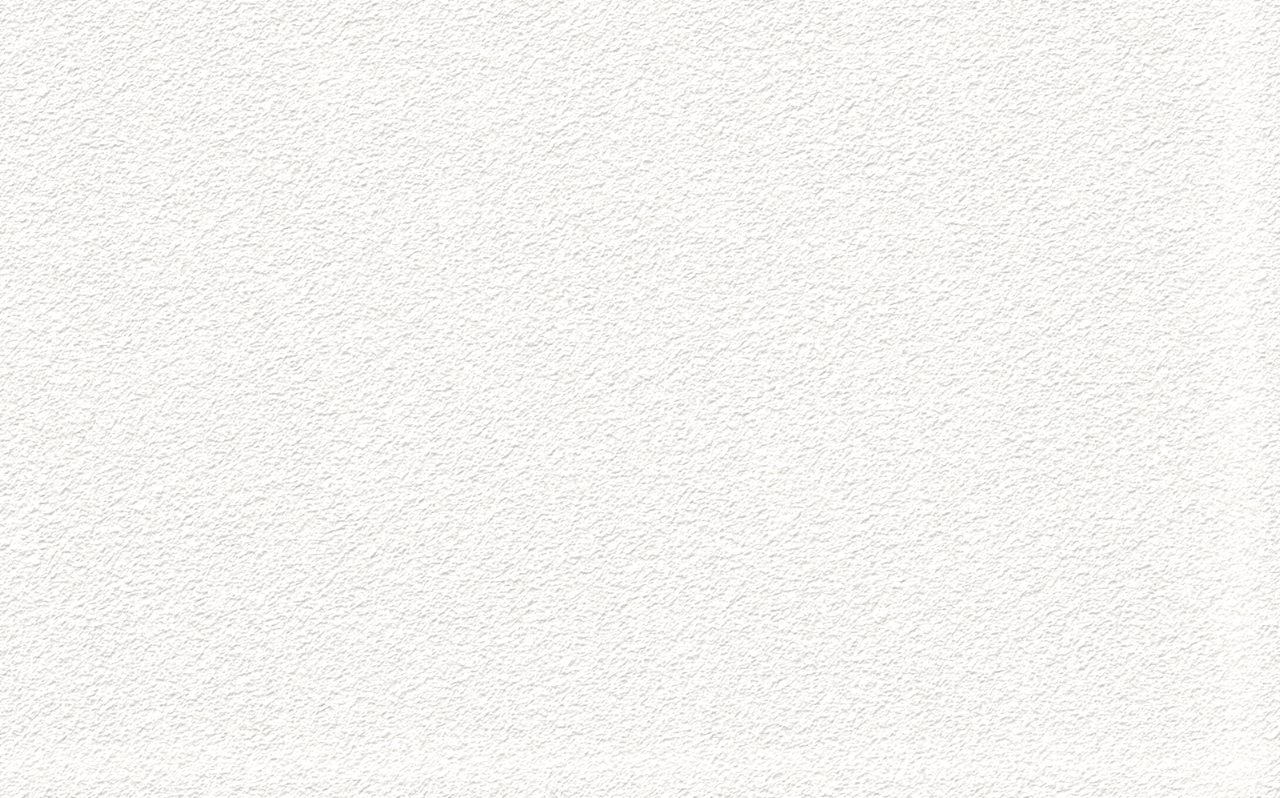
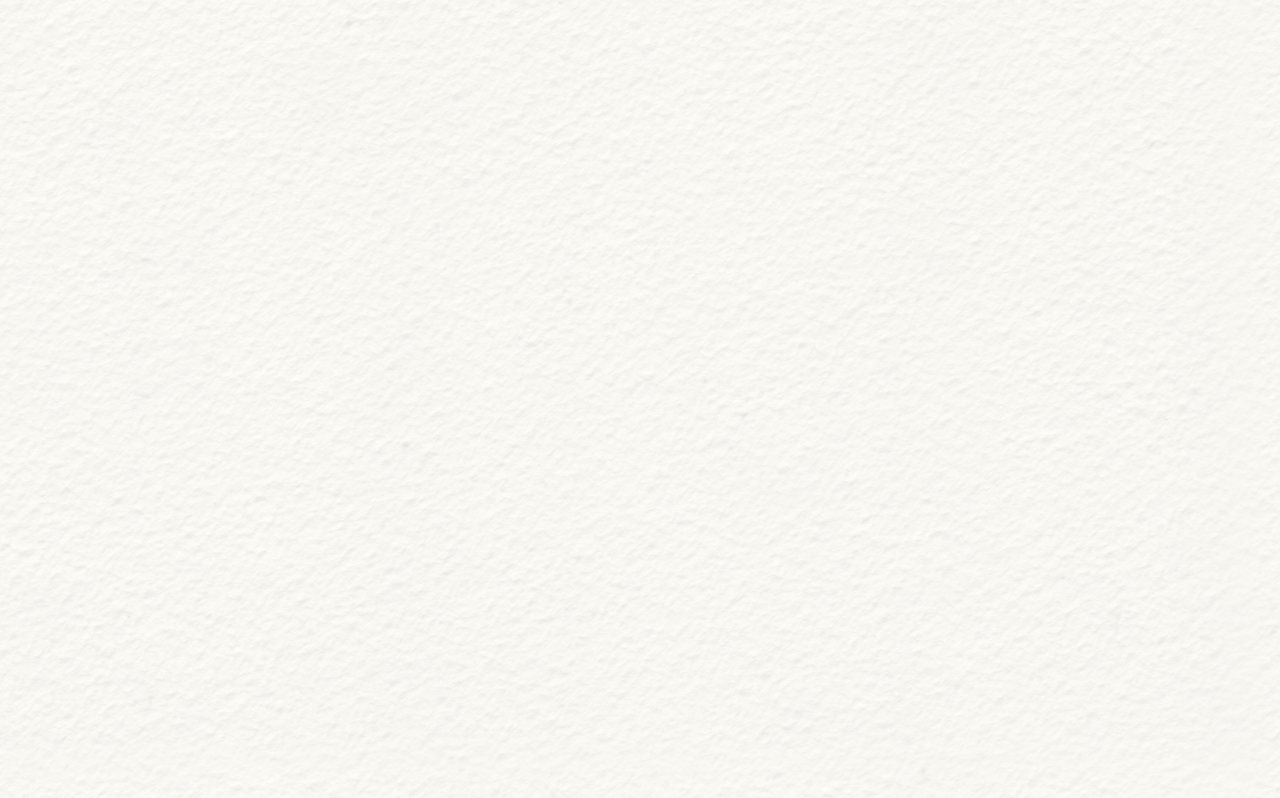
fix(profile): calender newsprint away from drawing-paper tooth
Rebuild the Newsprint sheet as a newsprint-specific paper model: harder
calender, scan-amplitude pulp, and paper-thin lighting without RMS-lock
so leftover watercolor pebbles are not restamped as a tiled shader.

Changed region(s): [[0.0312, 0.9925, 0.0625, 1.0]]

diff --git a/scripts/gennewsprint/material-swatch.html b/scripts/gennewsprint/material-swatch.html
@@ -27,5 +27,5 @@ body{
 <p class="label">Newsprint material · height / normal / roughness / ink</p>
 <div class="blocks"><div class="block gray"></div><div class="block black"></div></div>
 <div class="rules"><div class="one"></div><div class="two"></div></div>
-<p class="copy"><strong>whereToken local token accounting</strong><br>Coldset ink multiplies into a height-lit uncoated sheet. Type stays crisp; the substrate carries felt, calendering, and a soft desk key.</p>
+<p class="copy"><strong>whereToken local token accounting</strong><br>Coldset ink multiplies into a calendered newsprint sheet. Formation lives in the paper color; the remaining tooth is not a lit watercolor stamp.</p>
 </body></html>

diff --git a/scripts/gennewsprint/process.go b/scripts/gennewsprint/process.go
@@ -10,36 +10,40 @@ import (
 	"os"
 )
 
-// Printed-paper bake. The production JPEG is a shaded RGB sheet, not a
-// grayscale overlay. Stack:
+// Newsprint-specific paper model. Paper001 is watercolor / drawing stock;
+// the bake must not ship that tooth as a lit relief stamp.
 //
-//   height  — photoscanned displacement, calendered toward newsprint
-//   normal  — wrapped finite differences of that height field
-//   roughness — valleys and steep felt are broader / more absorptive
-//   lighting — one soft desk key + faint fill + micro-occlusion + sheen
-//   albedo  — scanned color retinted to the CSS paper base
+//   height  — calender the scan; keep only the scan's real mid-frequency
+//             pulp (no Fourier, no contrast-normalized sheet clouds)
+//   normal  — fixed paper-thin slope gain; never RMS-lock (that re-amplifies
+//             leftover drawing-paper pebbles into a tiled shader)
+//   albedo  — remaining tooth and cheap-paper mottling live in the paper
+//             color, not as a bump film
+//   lighting — almost ambient, one soft desk key, matte, tiny occlusion
 //
 // Ink is not painted into this asset. Live CSS multiplies existing inked
 // pixels over this substrate so type/rules/heat reduce paper albedo.
 
 const (
-	calenderRadius = 1.05
-	feltMix        = 0.38
-	broadRadius    = 34.0
-	broadWeight    = 0.05
-	aoRadius       = 2.4
-	aoGain         = 0.085
-	targetSlopeRMS = 0.58
-	sheenPeak      = 0.022
-	albedoGain     = 0.28
-	keyWeight      = 0.30
-	fillWeight     = 0.05
-	ambientWeight  = 0.65
-	baseR          = 247.0
-	baseG          = 246.0
-	baseB          = 241.0
-	jpegQuality    = 83
-	softenRadius   = 0.32
+	calenderRadius      = 2.5
+	feltMix             = 0.11
+	toothGain           = 0.82
+	flockRadius         = 10.0
+	flockGain           = 0.28
+	aoRadius            = 3.4
+	aoGain              = 0.030
+	newsprintSlopeScale = 7.0
+	sheenPeak           = 0.007
+	albedoGain          = 0.24
+	flockToneGain       = 28.0
+	keyWeight           = 0.14
+	fillWeight          = 0.04
+	ambientWeight       = 0.82
+	baseR               = 247.0
+	baseG               = 246.0
+	baseB               = 241.0
+	jpegQuality         = 84
+	softenRadius        = 0.40
 )
 
 func bakeFromVendor(colorPath, dispPath string) ([]byte, image.Point, error) {
@@ -60,9 +64,9 @@ func bakeFromVendor(colorPath, dispPath string) ([]byte, image.Point, error) {
 	disp := grayPlane(dispImg)
 
 	height := heightField(disp, w, h)
-	nx, ny, nz := reconstructNormals(height, w, h, targetSlopeRMS)
+	nx, ny, nz := reconstructNormals(height, w, h, newsprintSlopeScale)
 	rough := roughnessField(height, w, h)
-	albedo := retintAlbedo(rch, gch, bch, w, h)
+	albedo := retintAlbedo(rch, gch, bch, disp, w, h)
 	rgb := shadePaper(albedo, height, nx, ny, nz, rough, w, h)
 	rgb = gaussianRGBWrap(rgb, w, h, softenRadius)
 
@@ -131,20 +135,31 @@ func heightField(disp []float64, w, h int) []float64 {
 		raw[i] = v / 255
 	}
 	calendered := gaussianWrap(raw, w, h, calenderRadius)
-	felt := make([]float64, len(raw))
+	tooth := make([]float64, len(raw))
 	for i := range raw {
-		felt[i] = calendered[i]*(1-feltMix) + raw[i]*feltMix
+		tooth[i] = calendered[i]*(1-feltMix) + raw[i]*feltMix
 	}
-	broad := gaussianWrap(raw, w, h, broadRadius)
-	broadMean := meanOf(broad)
+	flock := gaussianWrap(raw, w, h, flockRadius)
+	tMean, fMean := meanOf(tooth), meanOf(flock)
 	out := make([]float64, len(raw))
 	for i := range raw {
-		out[i] = felt[i] + (broad[i]-broadMean)*broadWeight
+		// Actual scan amplitudes. Contrast-normalizing formation turns
+		// scanner low-frequency into the rejected cloudy field.
+		out[i] = clamp01(0.5 + (tooth[i]-tMean)*toothGain + (flock[i]-fMean)*flockGain)
 	}
-	return unit01(out)
+	return out
 }
 
 func unit01(src []float64) []float64 {
+	u := zeroMeanUnit(src)
+	out := make([]float64, len(src))
+	for i, v := range u {
+		out[i] = clamp01(0.5 + v*0.22)
+	}
+	return out
+}
+
+func zeroMeanUnit(src []float64) []float64 {
 	m := meanOf(src)
 	var acc float64
 	for _, v := range src {
@@ -157,55 +172,54 @@ func unit01(src []float64) []float64 {
 	}
 	out := make([]float64, len(src))
 	for i, v := range src {
-		out[i] = clamp01(0.5 + (v-m)*0.22/std)
+		out[i] = (v - m) / std
 	}
 	return out
 }
 
-func reconstructNormals(height []float64, w, h int, targetRMS float64) (nx, ny, nz []float64) {
+func reconstructNormals(height []float64, w, h int, slopeScale float64) (nx, ny, nz []float64) {
 	n := w * h
-	dx := make([]float64, n)
-	dy := make([]float64, n)
-	var energy float64
-	for y := 0; y < h; y++ {
-		for x := 0; x < w; x++ {
-			i := y*w + x
-			dx[i] = sample(height, w, h, x+1, y) - sample(height, w, h, x-1, y)
-			dy[i] = sample(height, w, h, x, y+1) - sample(height, w, h, x, y-1)
-			energy += dx[i]*dx[i] + dy[i]*dy[i]
-		}
-	}
-	rms := math.Sqrt(energy / float64(n))
-	scale := targetRMS / math.Max(rms, 1e-9)
 	nx = make([]float64, n)
 	ny = make([]float64, n)
 	nz = make([]float64, n)
-	for i := 0; i < n; i++ {
-		nx[i], ny[i], nz[i] = normalize3(-scale*dx[i], -scale*dy[i], 1)
+	for y := 0; y < h; y++ {
+		for x := 0; x < w; x++ {
+			i := y*w + x
+			dx := sample(height, w, h, x+1, y) - sample(height, w, h, x-1, y)
+			dy := sample(height, w, h, x, y+1) - sample(height, w, h, x, y-1)
+			nx[i], ny[i], nz[i] = normalize3(-slopeScale*dx, -slopeScale*dy, 1)
+		}
 	}
 	return nx, ny, nz
 }
 
 func roughnessField(height []float64, w, h int) []float64 {
-	// Uncoated newsprint is matte. Valleys and high-slope felt are
-	// rougher; calendered highs keep a slightly tighter response.
-	blur := gaussianWrap(height, w, h, 1.8)
+	// Machine-calendered newsprint is almost uniformly matte.
+	blur := gaussianWrap(height, w, h, 2.4)
 	out := make([]float64, len(height))
 	for i, hgt := range height {
-		valley := clamp01((blur[i] - hgt) * 3.2)
-		out[i] = clamp01(0.70 + 0.18*valley + 0.08*(1-hgt))
+		valley := clamp01((blur[i] - hgt) * 2.2)
+		out[i] = clamp01(0.86 + 0.08*valley + 0.04*(1-hgt))
 	}
 	return out
 }
 
-func retintAlbedo(r, g, b []float64, w, h int) []float64 {
+func retintAlbedo(r, g, b, disp []float64, w, h int) []float64 {
 	n := w * h
+	raw := make([]float64, n)
+	for i, v := range disp {
+		raw[i] = v / 255
+	}
+	flock := gaussianWrap(raw, w, h, flockRadius)
+	fMean := meanOf(flock)
 	meanR, meanG, meanB := meanOf(r), meanOf(g), meanOf(b)
 	out := make([]float64, n*3)
 	for i := 0; i < n; i++ {
-		out[i*3+0] = clamp8(baseR + (r[i]-meanR)*albedoGain)
-		out[i*3+1] = clamp8(baseG + (g[i]-meanG)*albedoGain)
-		out[i*3+2] = clamp8(baseB + (b[i]-meanB)*albedoGain)
+		// Residual tooth / pulp lives in the paper color, not as a bump film.
+		tone := (flock[i] - fMean) * flockToneGain
+		out[i*3+0] = clamp8(baseR + (r[i]-meanR)*albedoGain + tone)
+		out[i*3+1] = clamp8(baseG + (g[i]-meanG)*albedoGain + tone*0.92)
+		out[i*3+2] = clamp8(baseB + (b[i]-meanB)*albedoGain + tone*0.80)
 	}
 	return out
 }

diff --git a/scripts/gennewsprint/process_test.go b/scripts/gennewsprint/process_test.go
@@ -106,6 +106,41 @@ func TestWrapSampleIsPeriodic(t *testing.T) {
 	}
 }
 
+func TestNewsprintHeightPrefersFormationOverTooth(t *testing.T) {
+	t.Parallel()
+	w, h := 64, 48
+	disp := make([]float64, w*h)
+	for y := 0; y < h; y++ {
+		for x := 0; x < w; x++ {
+			tooth := float64((x + y) % 2) * 80
+			roll := 48 * float64(x) / float64(w-1)
+			disp[y*w+x] = 100 + tooth + roll
+		}
+	}
+	got := heightField(disp, w, h)
+	var adj float64
+	var n int
+	for y := 0; y < h; y++ {
+		for x := 1; x < w; x++ {
+			adj += math.Abs(got[y*w+x] - got[y*w+x-1])
+			n++
+		}
+	}
+	if meanAdj := adj / float64(n); meanAdj > 0.085 {
+		t.Fatalf("calendered newsprint still has drawing-paper tooth: adjacent mean %g", meanAdj)
+	}
+	var left, right float64
+	var c int
+	for y := 8; y < h-8; y++ {
+		left += got[y*w+6]
+		right += got[y*w+w-7]
+		c++
+	}
+	if right <= left {
+		t.Fatalf("sheet formation roll was lost: left %g right %g", left/float64(c), right/float64(c))
+	}
+}
+
 func TestBakeFromVendorIsDeterministicAndBudgeted(t *testing.T) {
 	dir := t.TempDir()
 	colorPath := filepath.Join(dir, "color.jpg")
@@ -165,7 +200,7 @@ func litRampMean(w, h int, leftFacing bool) float64 {
 			}
 		}
 	}
-	nx, ny, nz := reconstructNormals(height, w, h, 0.22)
+	nx, ny, nz := reconstructNormals(height, w, h, 12)
 	rough := make([]float64, w*h)
 	for i := range rough {
 		rough[i] = 0.74

diff --git a/scripts/gennewsprint/assets.go b/scripts/gennewsprint/assets.go
@@ -32,7 +32,7 @@ body{
 <p class="label">Newsprint material · height / normal / roughness / ink</p>
 <div class="blocks"><div class="block gray"></div><div class="block black"></div></div>
 <div class="rules"><div class="one"></div><div class="two"></div></div>
-<p class="copy"><strong>whereToken local token accounting</strong><br>Coldset ink multiplies into a height-lit uncoated sheet. Type stays crisp; the substrate carries felt, calendering, and a soft desk key.</p>
+<p class="copy"><strong>whereToken local token accounting</strong><br>Coldset ink multiplies into a calendered newsprint sheet. Formation lives in the paper color; the remaining tooth is not a lit watercolor stamp.</p>
 </body></html>
 `, displayWidthCSS)
 	return []byte(body)

diff --git a/scripts/gennewsprint/main.go b/scripts/gennewsprint/main.go
@@ -1,7 +1,7 @@
-// Command gennewsprint bakes a printed-paper sheet from photoscanned
-// Paper001 maps: height field, reconstructed normals, roughness, and
-// desk-key lighting. It does not synthesize Fourier cockling or ship a
-// grayscale overlay.
+// Command gennewsprint bakes a newsprint sheet from photoscanned Paper001
+// maps. The scan is watercolor stock; the bake calenders that tooth and
+// keeps only scan-derived formation. It does not synthesize Fourier
+// cockling or ship a grayscale overlay.
 package main
 
 import (

diff --git a/docs/wheretoken_newsprint_material_design_v3.md b/docs/wheretoken_newsprint_material_design_v3.md
@@ -4,6 +4,8 @@
 >
 > Iteration 2 (printed-paper simulation): `scripts/gennewsprint` reconstructs normals from the scanned height, varies roughness by valley/calender, lights a shaded RGB sheet, and the live page multiplies existing inked pixels over that substrate. It does not retile a fiber JPEG as a grayscale overlay.
 >
+> Iteration 3 (art-direction): the height-lit Paper001 bake still read as a watercolor-paper website (loud tooth, tiled lighting stamp). Production now uses a newsprint-specific paper model — harder calender, scan-derived formation in the paper color, paper-thin lighting without RMS-lock. Same scan, no new stock.
+>
 > Status: implementation specification
 > Scope: only the `Newsprint` theme of the live public profile
 > Baseline inspected: `7d9a1629efef67fdad5954a12e5563f382175a35` (`fix(profile): render newsprint as procedural paper`)
